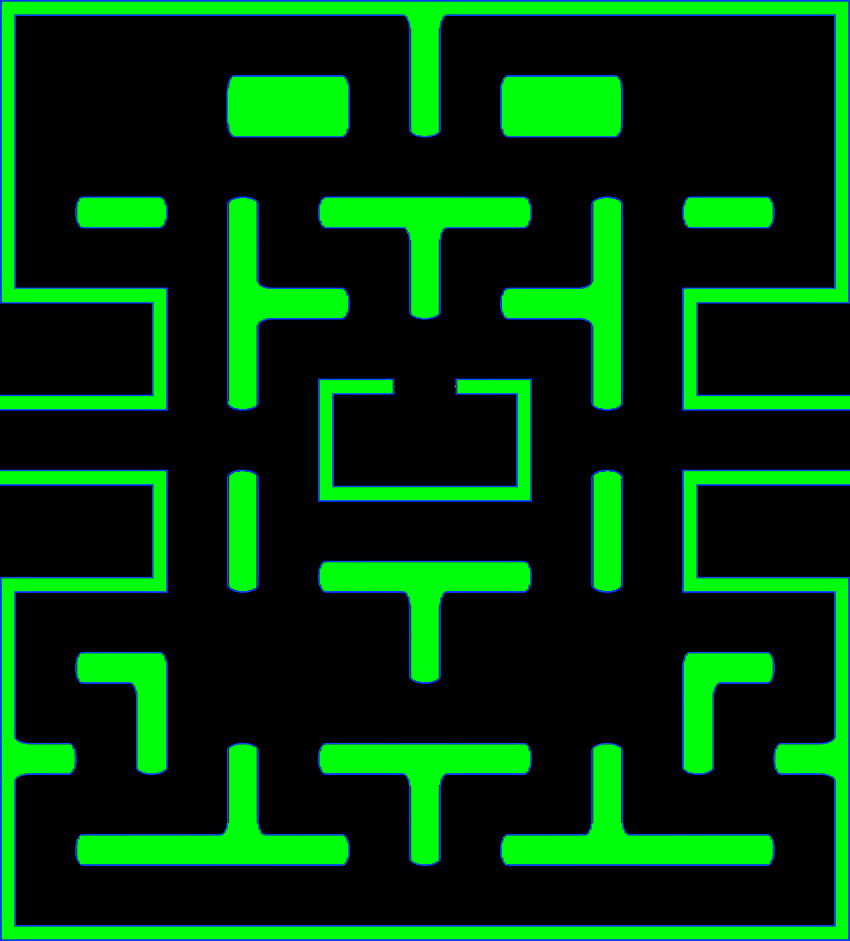
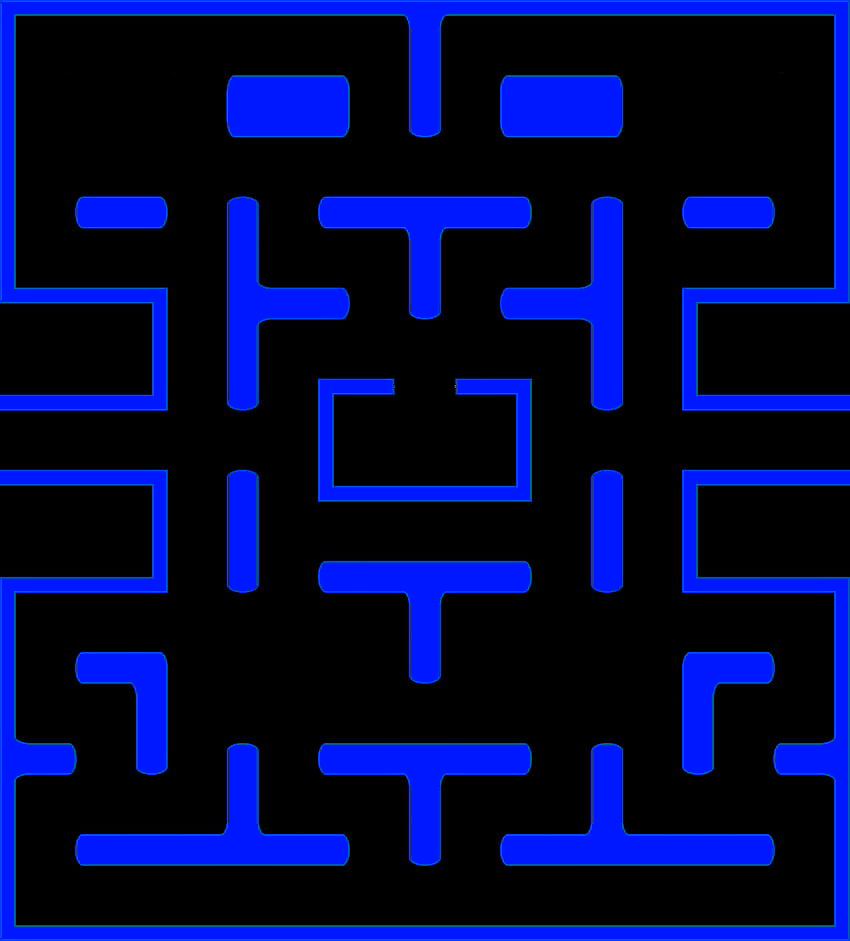
Se cambia el color de fondo, la posicion de las monedas y se crea el Win del juego

diff --git a/mainwindow.cpp b/mainwindow.cpp
@@ -35,11 +35,20 @@ MainWindow::MainWindow(QWidget *parent) : QMainWindow(parent), ui(new Ui::MainWi
     timer->start(20);
     connect(timer, SIGNAL(timeout()), this, SLOT(actualizarEscena()));
 
-    int ancho = 50, alto = 383;
+    int ancho = 50, alto = 383, m = 0;
     for(auto e : monedas) {
         scene->addItem(e);
         e->setPos(ancho,alto);
         ancho += 75;
+
+        if(m == 2 || m == 3 || m == 4) {
+            alto = 214;
+        } else if(m == 6 || m == 7 || m == 8) {
+            alto = 500;
+        } else {
+            alto = 383;
+        }
+        m+=1;
     }
 }
 
@@ -77,23 +86,29 @@ void MainWindow::actualizarEscena() {
         for(auto c : colisionesFantasma) {
             Personaje *pacman = dynamic_cast<Personaje*>(c);
             if(pacman) {
-                personaje = nullptr;
                 delete fantasma;
                 timer->stop();
                 QMessageBox::information(this, "", "GAME OVER!");
+                QApplication::quit();
             }
         }
     }
 
-    for(auto e : monedas) {
-        QList<QGraphicsItem*> colisionesPoint = scene->collidingItems(e);
-        if(!colisionesPoint.isEmpty()) {
-            for(auto c : colisionesPoint) {
-                Personaje *pacman = dynamic_cast<Personaje*>(c);
-                if(pacman) {
-                    scene->removeItem(e);
-                }
+    QList<QGraphicsItem*> colisionesPoint = scene->collidingItems(personaje);
+    if(!colisionesPoint.isEmpty()) {
+        for(auto c : colisionesPoint) {
+            Monedas *moneda = dynamic_cast<Monedas*>(c);
+            if(moneda) {
+                scene->removeItem(moneda);
+                contColisiones++;
             }
         }
+    }
+
+    if(contColisiones == 10) {
+        delete fantasma;
+        timer->stop();
+        QMessageBox::information(this, "", "YOU WIN!");
+        QApplication::quit();
     }
 }

diff --git a/mainwindow.h b/mainwindow.h
@@ -34,5 +34,6 @@ private:
     Personaje* personaje;
     Fantasma* fantasma;
     QVector<Monedas*> monedas;
+    int contColisiones = 0;
 };
 #endif // MAINWINDOW_H
